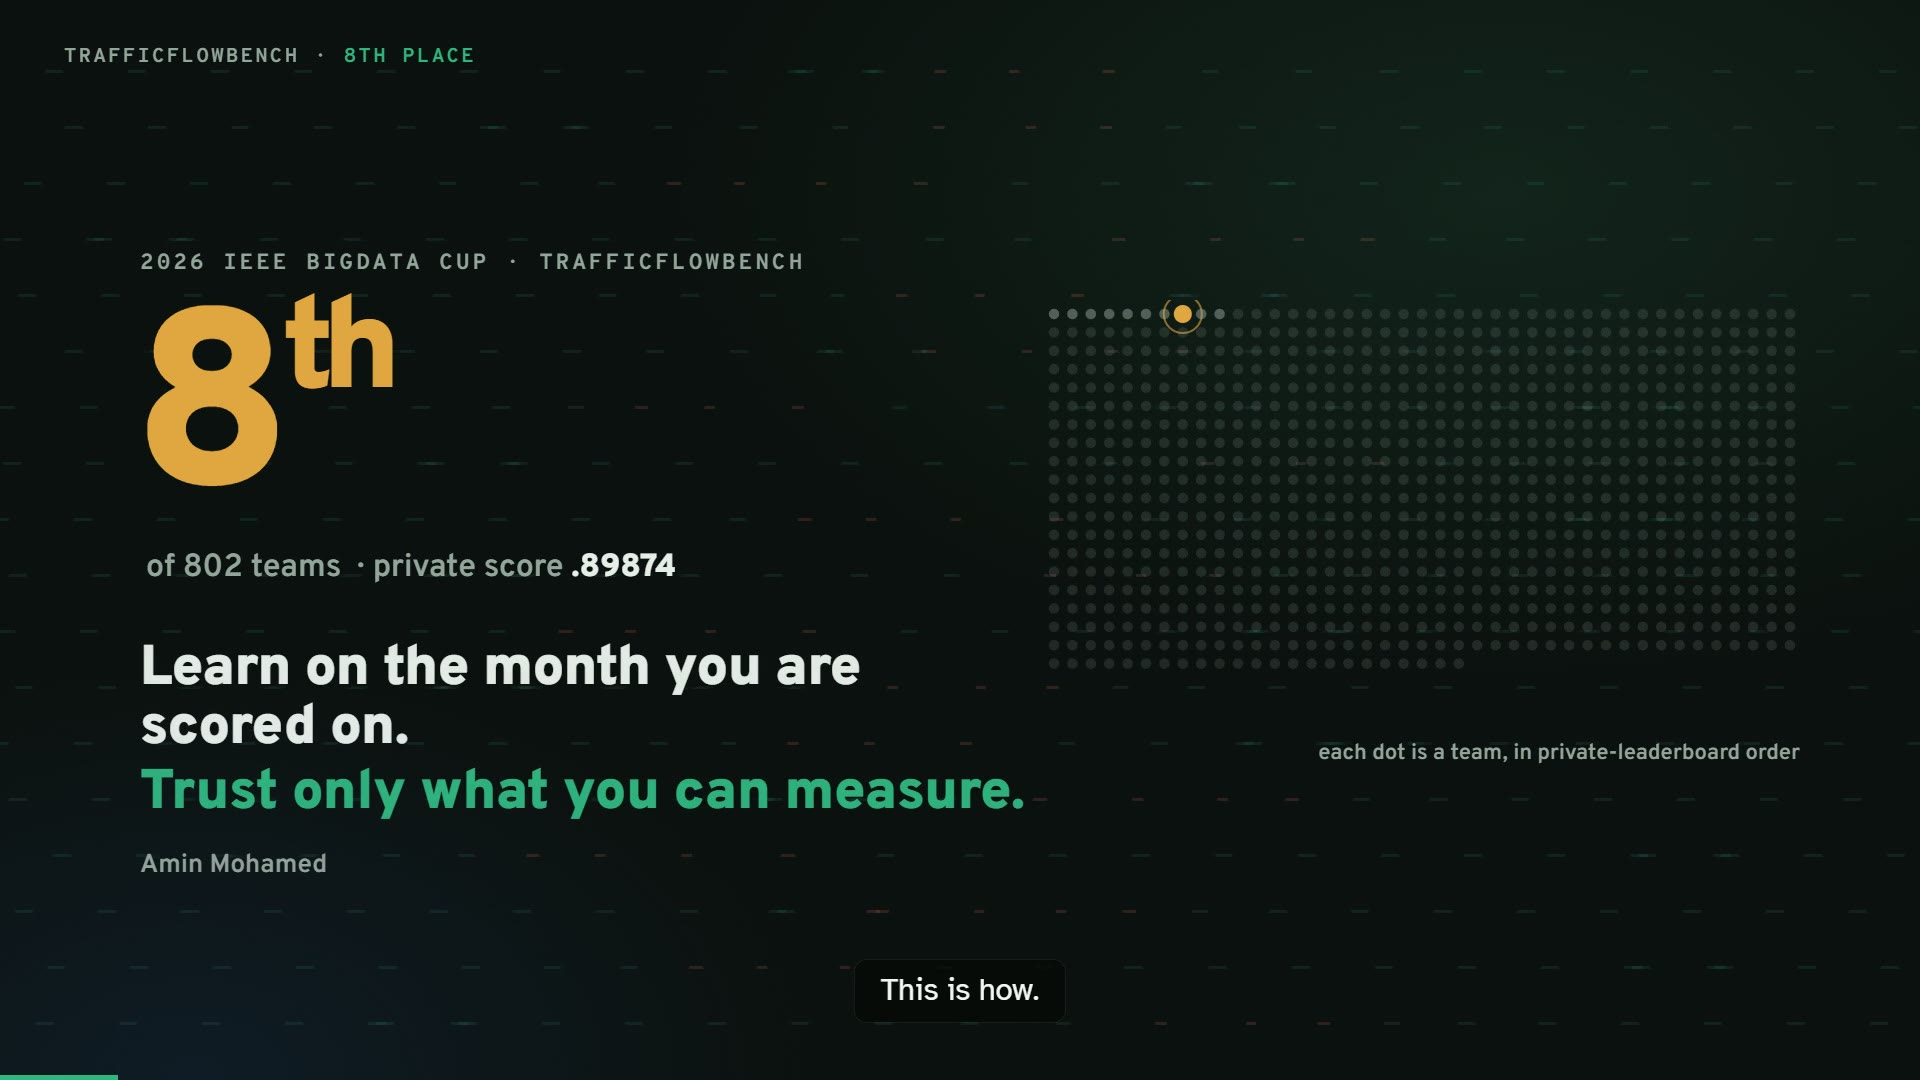
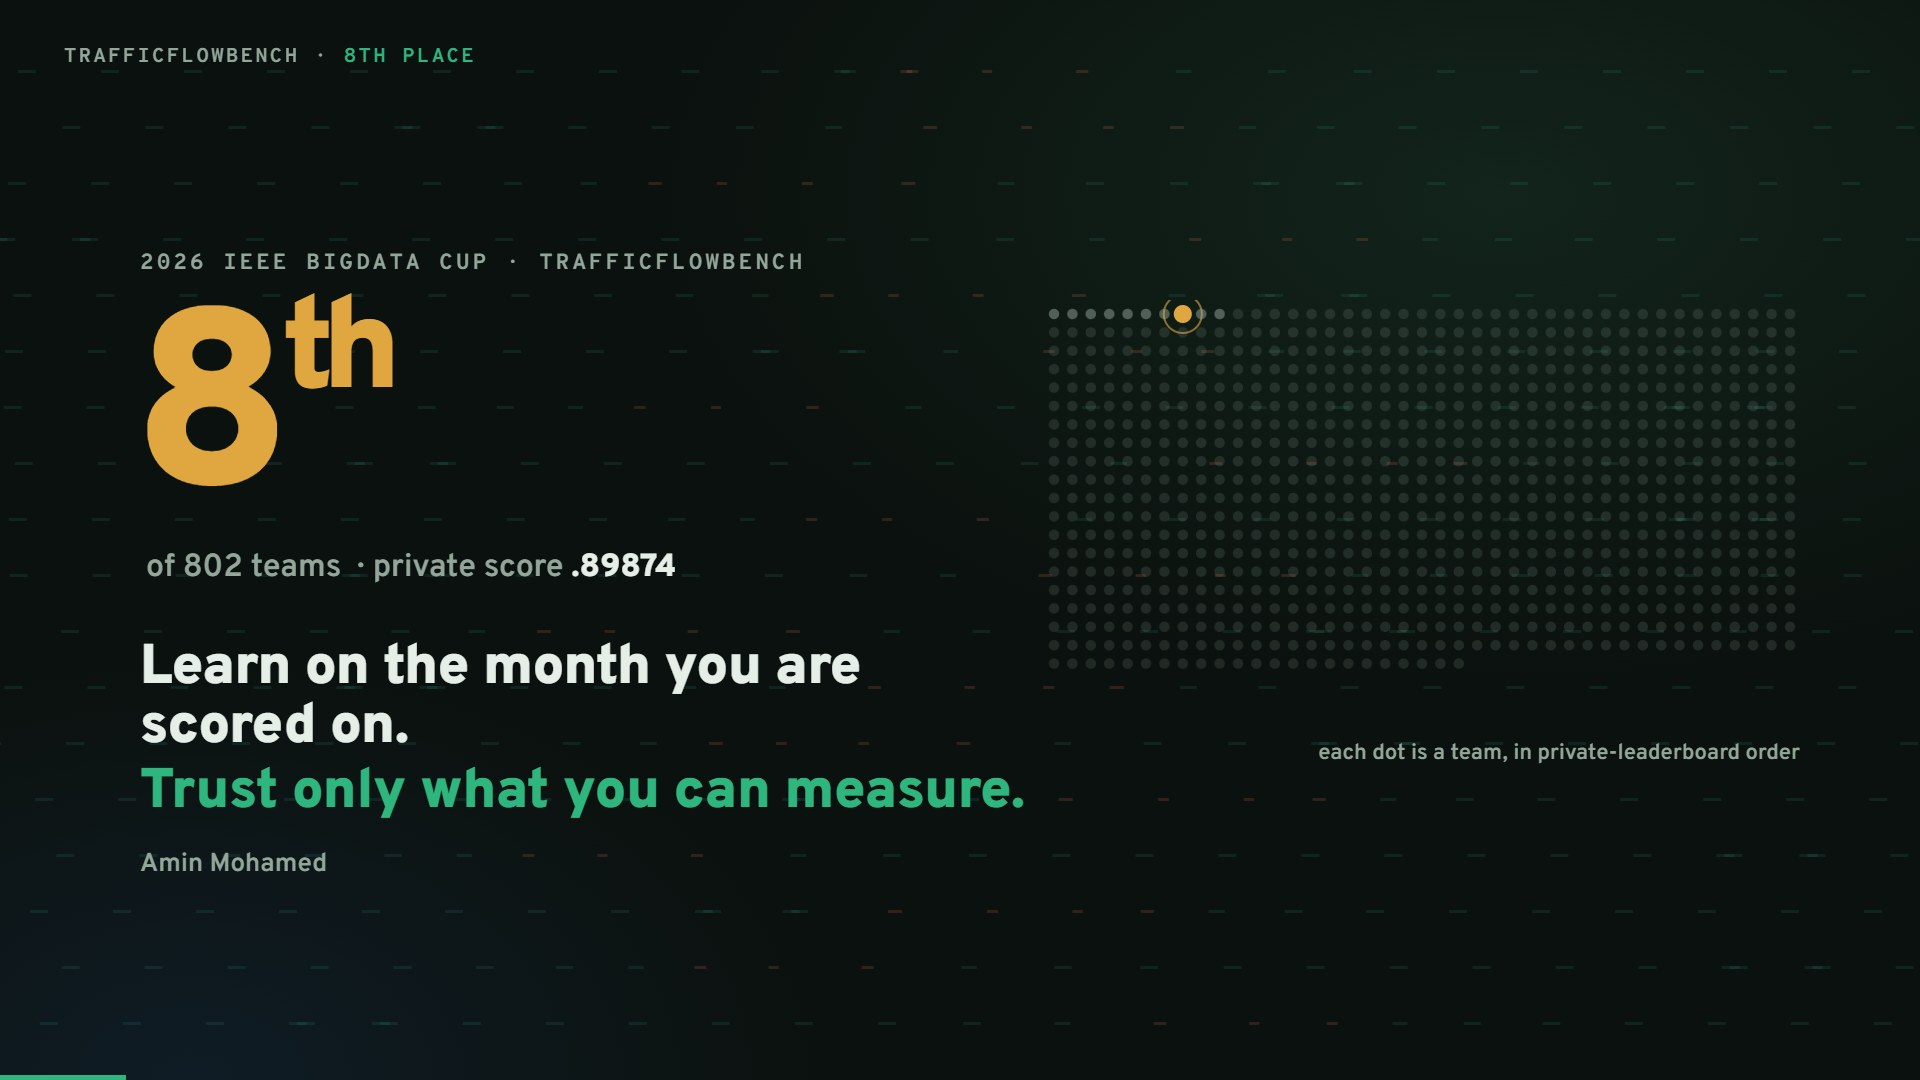
Video: menu entry, clean poster, poster with play button

diff --git a/index.html b/index.html
@@ -201,7 +201,7 @@ pre.cite { background: var(--sunk); border: 1px solid var(--rule); border-radius
   <div class="col">
     <span class="brand">TFB 2026 · 8th</span>
     <nav id="exits" aria-label="Sections">
-      <a href="#result"><b>1</b>Result</a><a href="#private"><b>2</b>Public vs private</a><a href="#pipeline"><b>3</b>System</a>
+      <a href="#video"><b>&#9654;</b>Video</a><a href="#result"><b>1</b>Result</a><a href="#private"><b>2</b>Public vs private</a><a href="#pipeline"><b>3</b>System</a>
       <a href="#buildup"><b>4</b>Score build-up</a><a href="#measure"><b>5</b>Measuring</a><a href="#analysis"><b>6</b>Error anatomy</a>
       <a href="#registry"><b>7</b>Idea registry</a><a href="#negative"><b>8</b>What failed</a><a href="#reproduce"><b>9</b>Reproduce</a>
       <a href="#process"><b>10</b>How it was run</a><a href="#rules"><b>11</b>Rules</a>
